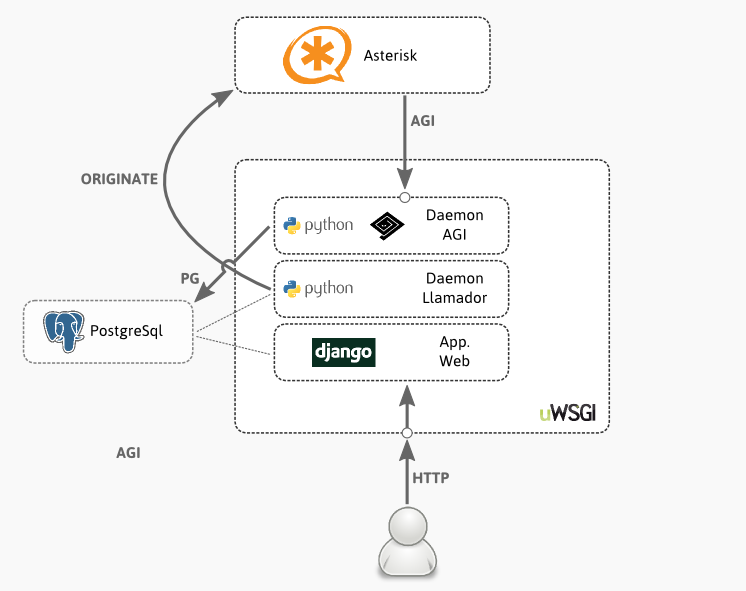
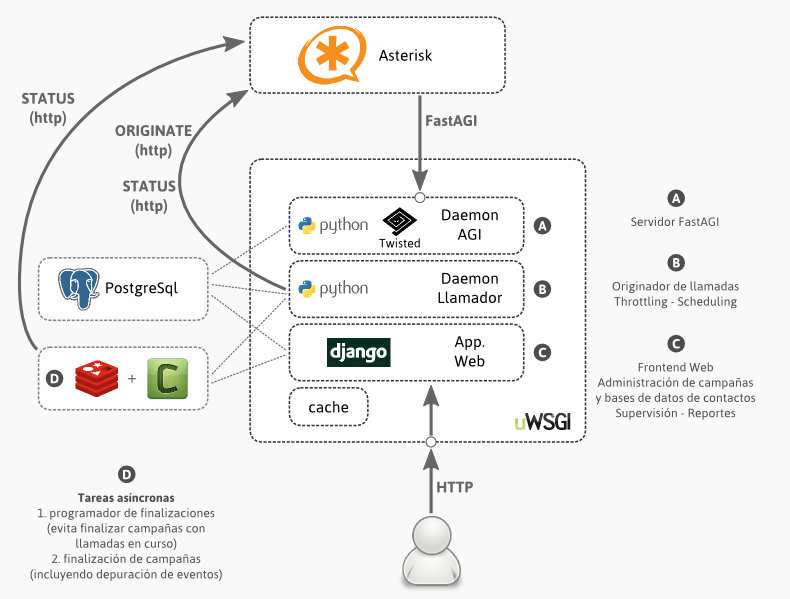
Update release notes y diag. de arquitectura

diff --git a/docs/release_notes.rst b/docs/release_notes.rst
@@ -7,26 +7,30 @@ Sprint 6 - 11 de julio de 2014
 Nueva funcionalidad
 ...................
 
-* Nuevas formas de reciclado de campaña
-* Implementacion de Celery
-* Finalización de campaña en background
-* Depuración automatica de eventos de llamadas al finalizar campaña
-
-* FALTA
+* Implementacion de Celery para ejecución de tareas asincronas / en background
+* Finalización manual de campañas en background
+* FTS-212 - Nuevas formas de reciclado de campaña (Ocupados/No contestó/Número erróneo/Llamada errónea)
+* FTS-234 - Validación consistencia de fechas y actuaciones de campañas
+* FTS-231 - Daemon evita finalizar campañas que posean llamadas en curso
+* FTS-152 - Depuración de eventos de contactos
+* FTS-205 - Depuración de BD de contactos
+* FTS-208 - Mejora UI de carga de audio de campaña
 
 Deploy
 ......
 
-* xxx
-
-* FALTA
+* Deploy de workers Celery
 
 Bugs solucionados
 .................
 
-* xxx
+* FTS-169 - Reporta problemas con reload de configuracion de Asterisk
+* FTS-206 - Valida y acepta csv con una sola columna (sin delimitador)
 
-* FALTA
+Otras mejoras
+.............
+
+* Unificación de archivos de dependencias y librerías Python
 
 Known issues
 ------------
@@ -43,7 +47,7 @@ Known issues
   se baja inmediantamente.
 * FTS-136 - No se chequea el **resultado de llamada AGI**, lo que puede generar perdida
   de eventos si el llamado AGI() falla.
-* FTS-174 Sobrepaso de limites si AMI/HTTP falla: sólo sucende en un caso muy particular,
+* FTS-174 - Sobrepaso de limites si AMI/HTTP falla: sólo sucende en un caso muy particular,
   si existen llamadas en curso cuando el daemon arranca (porque se reinició, por ejemplo),
   y el primer request que se hace via AMI / HTTP fallara, puede suceder que se realicen
   ORIGINATES produciendo un sobrepaso en el límite de canales.
